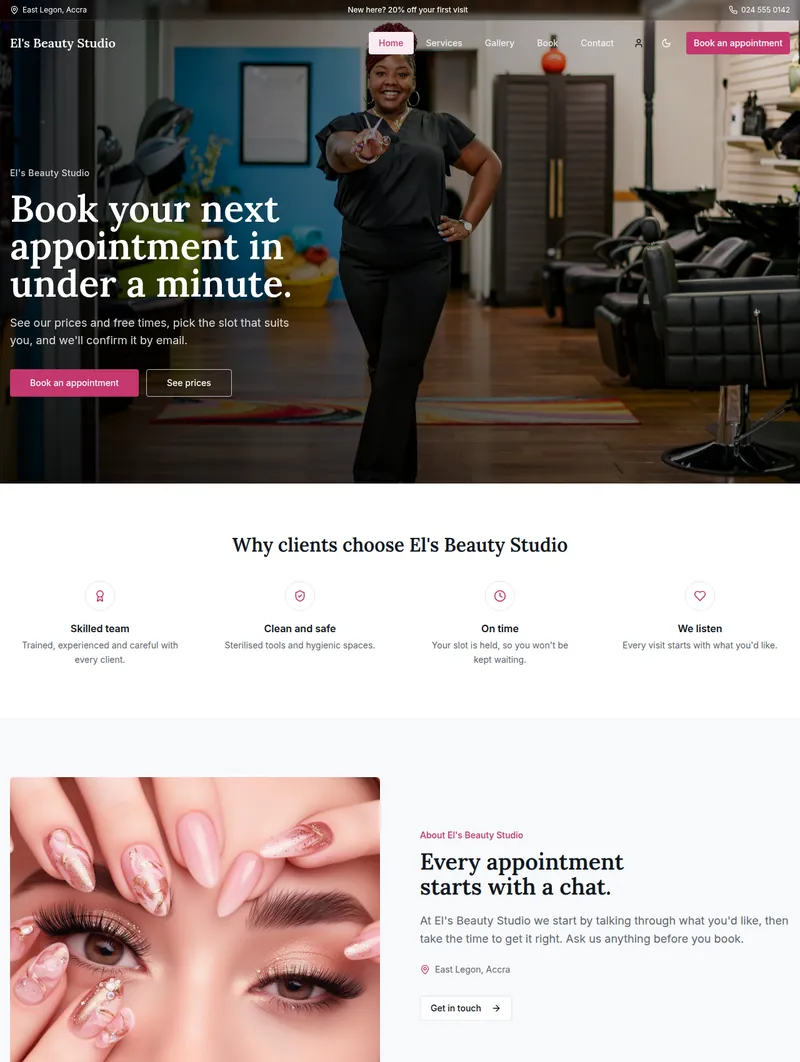
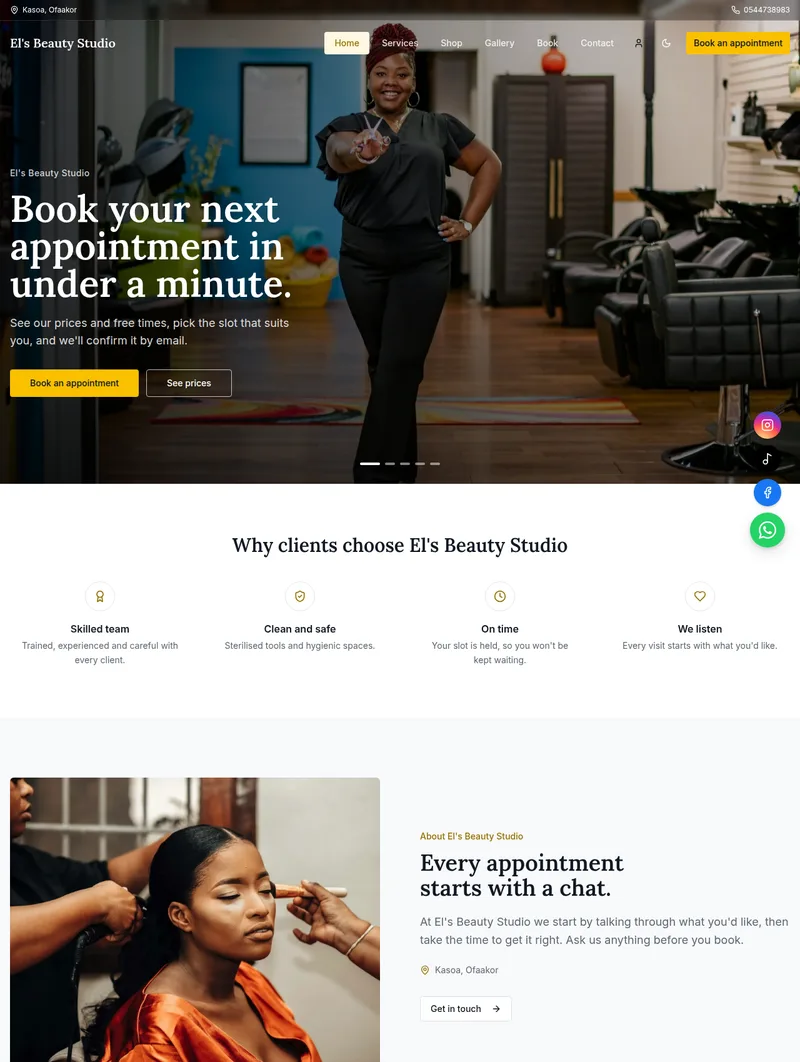
Platform landing: showcase previews captured from the current El's, Nailed By Zara and Noir & Co sites, with their real addresses

diff --git a/src/pages/landing/content.ts b/src/pages/landing/content.ts
@@ -7,7 +7,7 @@ import lashes1 from "@/assets/gallery/lashes-1.jpg";
 import lashes2 from "@/assets/gallery/lashes-2.jpg";
 import siteEls from "@/assets/landing/site-els.webp";
 import siteZara from "@/assets/landing/site-zara.webp";
-import siteAma from "@/assets/landing/site-ama.webp";
+import siteNoir from "@/assets/landing/site-noir.webp";
 import { formatGHS } from "@/lib/currency";
 
 export const GHS = formatGHS;
@@ -29,7 +29,7 @@ export const STUDIOS: DemoStudio[] = [
     key: "els",
     site: siteEls,
     name: "El's Beauty Studio",
-    slug: "elsbeautystudio",
+    slug: "els",
     accent: "341 53% 50%",
     tags: ["Nails", "Lashes", "Braids", "Facials"],
     featured: { name: "Gel Extensions", price: 180, duration: "60 min" },
@@ -38,21 +38,21 @@ export const STUDIOS: DemoStudio[] = [
   {
     key: "zara",
     site: siteZara,
-    name: "Nailed by Zara",
-    slug: "nailedbyzara",
+    name: "Nailed By Zara",
+    slug: "nailed-by-zara",
     accent: "286 34% 52%",
     tags: ["Acrylics", "Gel", "Nail art", "Pedicure"],
     featured: { name: "Full Set Acrylics", price: 160, duration: "75 min" },
     gallery: [nails2, nails1, lashes2],
   },
   {
-    key: "ama",
-    site: siteAma,
-    name: "Glow by Ama",
-    slug: "glowbyama",
+    key: "noir",
+    site: siteNoir,
+    name: "Noir & Co",
+    slug: "noir",
     accent: "18 58% 52%",
-    tags: ["Facials", "Makeup", "Waxing", "Brows"],
-    featured: { name: "Glow Facial", price: 220, duration: "50 min" },
+    tags: ["Clothing", "Watches", "Perfumes", "Accessories"],
+    featured: { name: "Outbound Top-Handle Bag", price: 690, duration: "In stock" },
     gallery: [lashes1, lashes2, nails1],
   },
 ];
